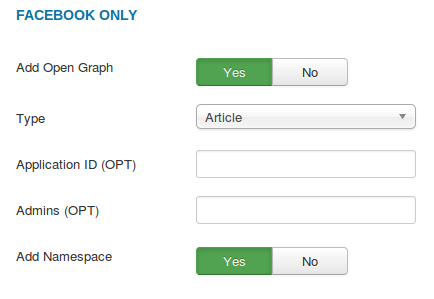
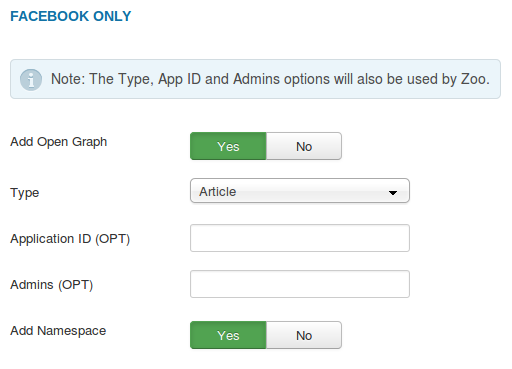
Updated image.

diff --git a/docs/joomla/extensions/social/guide.md b/docs/joomla/extensions/social/guide.md
@@ -922,8 +922,8 @@ more details. *\[Figure-21\]*
 -   og:image
 -   og:description
 -   og:site\_name
--   fb:app\_id
--   fb:admins
+-   fb:app\_id (Optional)
+-   fb:admins (Optional)
 
 ![Figure-21](images/docs/joomla/extensions/social-links/cw-slinks-plg-opengraph.png "Figure-21"){.coalaweb-docs}
 
@@ -1020,8 +1020,8 @@ The **Open Graph** tags added to your **Zoo** content will come from two sources
 
 The first source is the **Component Configuration Options** and they cover the follow **Open Graph** tags.
 -   og:type
--   fb:app\_id
--   fb:admins
+-   fb:app\_id (Optional)
+-   fb:admins (Optional)
 
 #### Source 2 
 
